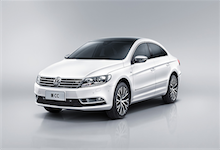
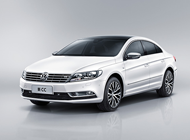
9月12日 20：04 1、主要增加流程导览图 2、主页车型图片没有拉伸

Changed region(s): [[0.1053, 0.2286, 0.9474, 0.8571], [0.1842, 0.4286, 0.2368, 0.4571]]

diff --git a/source/whalecar-facade/routes/tools/service-header.js b/source/whalecar-facade/routes/tools/service-header.js
@@ -2,7 +2,7 @@ var restify = require("restify");
 
 // create json restful service client
 exports.client = restify.createJsonClient({
-	url : 'http://localhost:8080',
-    //url : 'http://121.199.52.168:8080',
+	//url : 'http://localhost:8080',
+    url : 'http://121.199.52.168:8080',
 	version : '*'
 });
